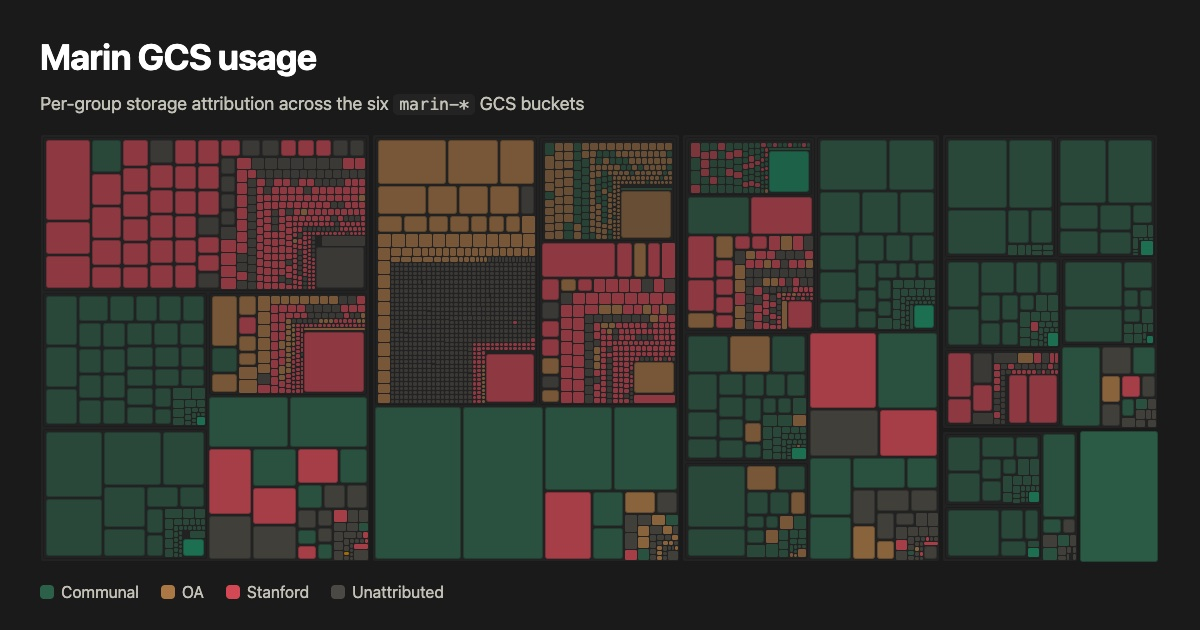
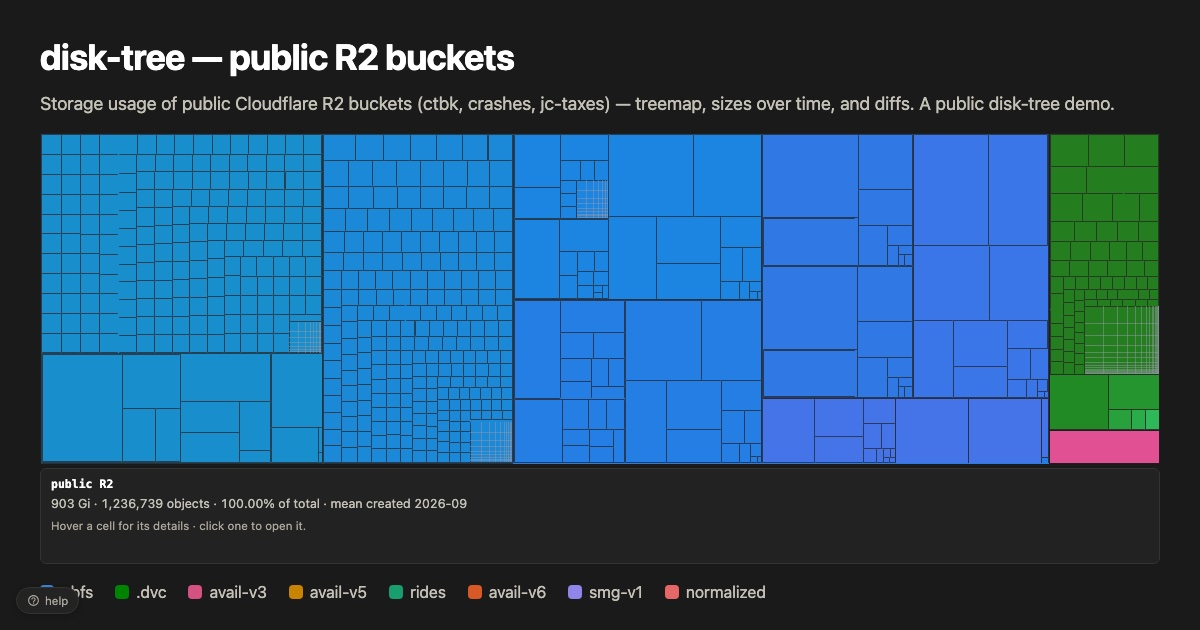
cloud: `site/index.html` + `og.jpg` are the r2 demo's (r2.rbw.sh), not cw-s3's — the title, description, `og:*` / `twitter:*` and the card served on r2.rbw.sh (and, via `local`, disk.rbw.sh) all said "Marin CoreWeave usage" / `cw-s3.oa.dev`
The card is the r2 store's `/og` route at 1200×630 (headless Chrome over
r2.rbw.sh's data). Each deployment branch keeps its own head and card.

Claude-Session: https://claude.ai/code/session_019krTiwBTwBWLFiX3NU1CM1

diff --git a/site/index.html b/site/index.html
@@ -3,20 +3,20 @@
   <head>
     <meta charset="UTF-8" />
     <meta name="viewport" content="width=device-width, initial-scale=1.0" />
-    <title>Marin CoreWeave usage</title>
-    <meta name="description" content="Per-user storage attribution across the Marin CoreWeave buckets." />
-    <meta property="og:title" content="Marin CoreWeave usage" />
-    <meta property="og:description" content="Per-user storage attribution across the Marin CoreWeave buckets." />
+    <title>disk-tree — public R2 buckets</title>
+    <meta name="description" content="Storage usage of public Cloudflare R2 buckets (ctbk, crashes, jc-taxes) — treemap, sizes over time, and diffs. A public disk-tree demo." />
+    <meta property="og:title" content="disk-tree — public R2 buckets" />
+    <meta property="og:description" content="Storage usage of public Cloudflare R2 buckets (ctbk, crashes, jc-taxes) — treemap, sizes over time, and diffs. A public disk-tree demo." />
     <meta property="og:type" content="website" />
-    <meta property="og:url" content="https://cw-s3.oa.dev/" />
-    <meta property="og:image" content="https://cw-s3.oa.dev/og.jpg" />
+    <meta property="og:url" content="https://r2.rbw.sh/" />
+    <meta property="og:image" content="https://r2.rbw.sh/og.jpg" />
     <meta property="og:image:type" content="image/jpeg" />
     <meta property="og:image:width" content="1200" />
     <meta property="og:image:height" content="630" />
     <meta name="twitter:card" content="summary_large_image" />
-    <meta name="twitter:title" content="Marin GCS usage" />
-    <meta name="twitter:description" content="Per-user storage attribution across the Marin CoreWeave buckets." />
-    <meta name="twitter:image" content="https://cw-s3.oa.dev/og.jpg" />
+    <meta name="twitter:title" content="disk-tree — public R2 buckets" />
+    <meta name="twitter:description" content="Storage usage of public Cloudflare R2 buckets (ctbk, crashes, jc-taxes) — treemap, sizes over time, and diffs. A public disk-tree demo." />
+    <meta name="twitter:image" content="https://r2.rbw.sh/og.jpg" />
   </head>
   <body>
     <div id="root"></div>
